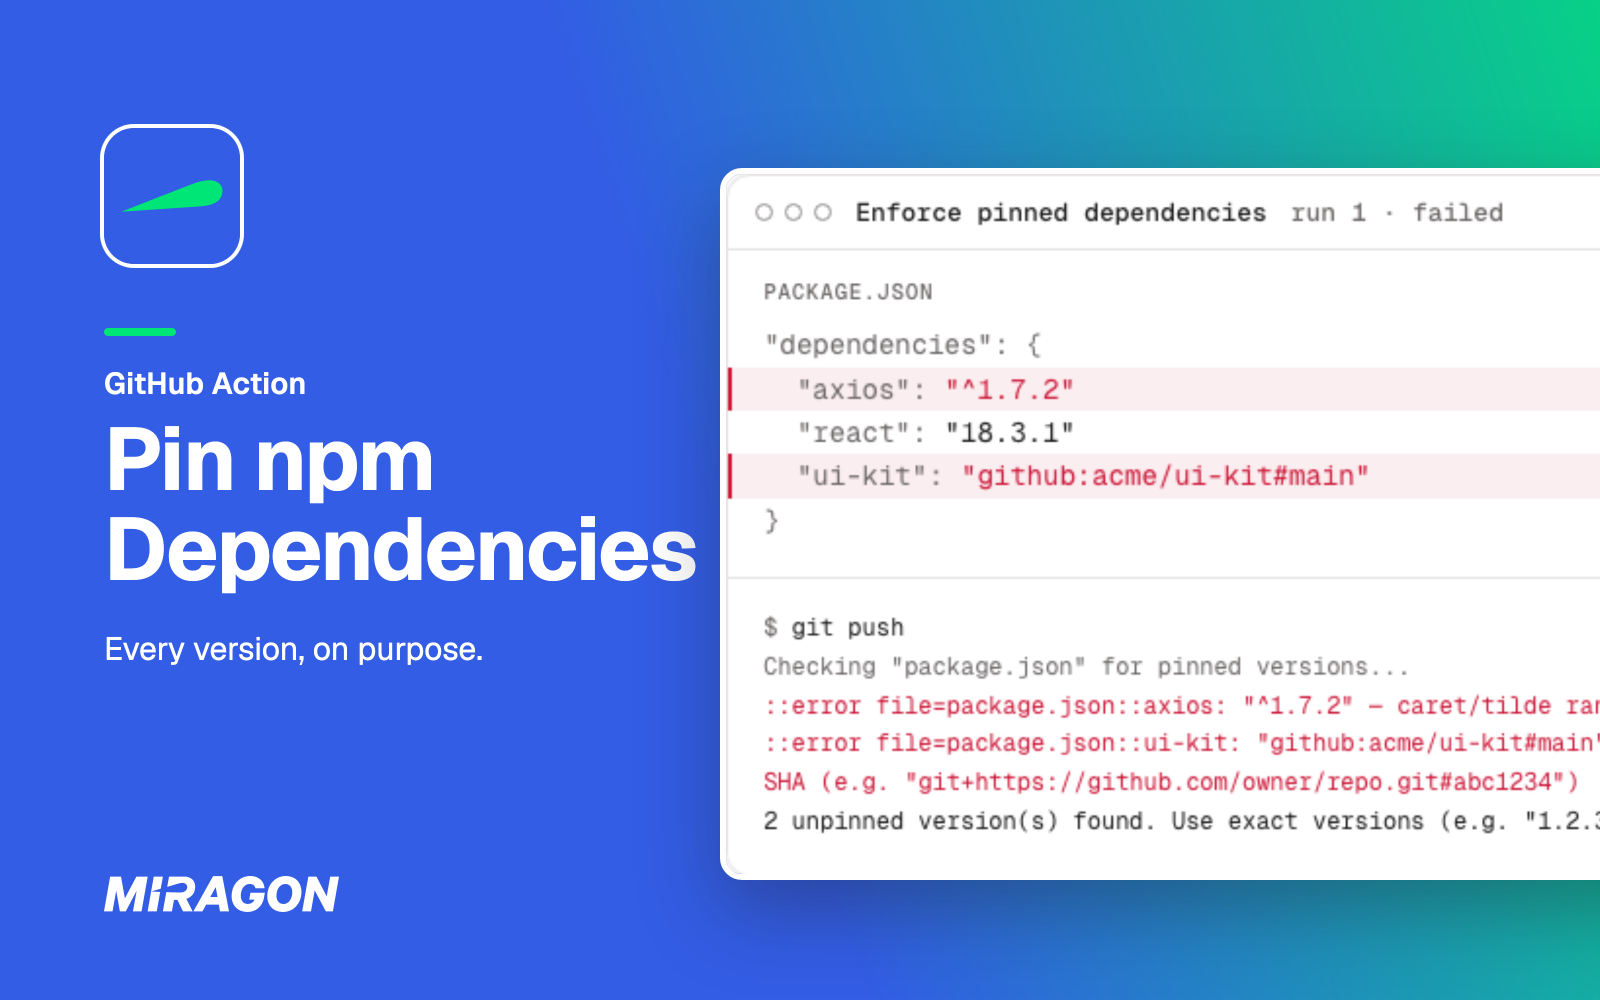
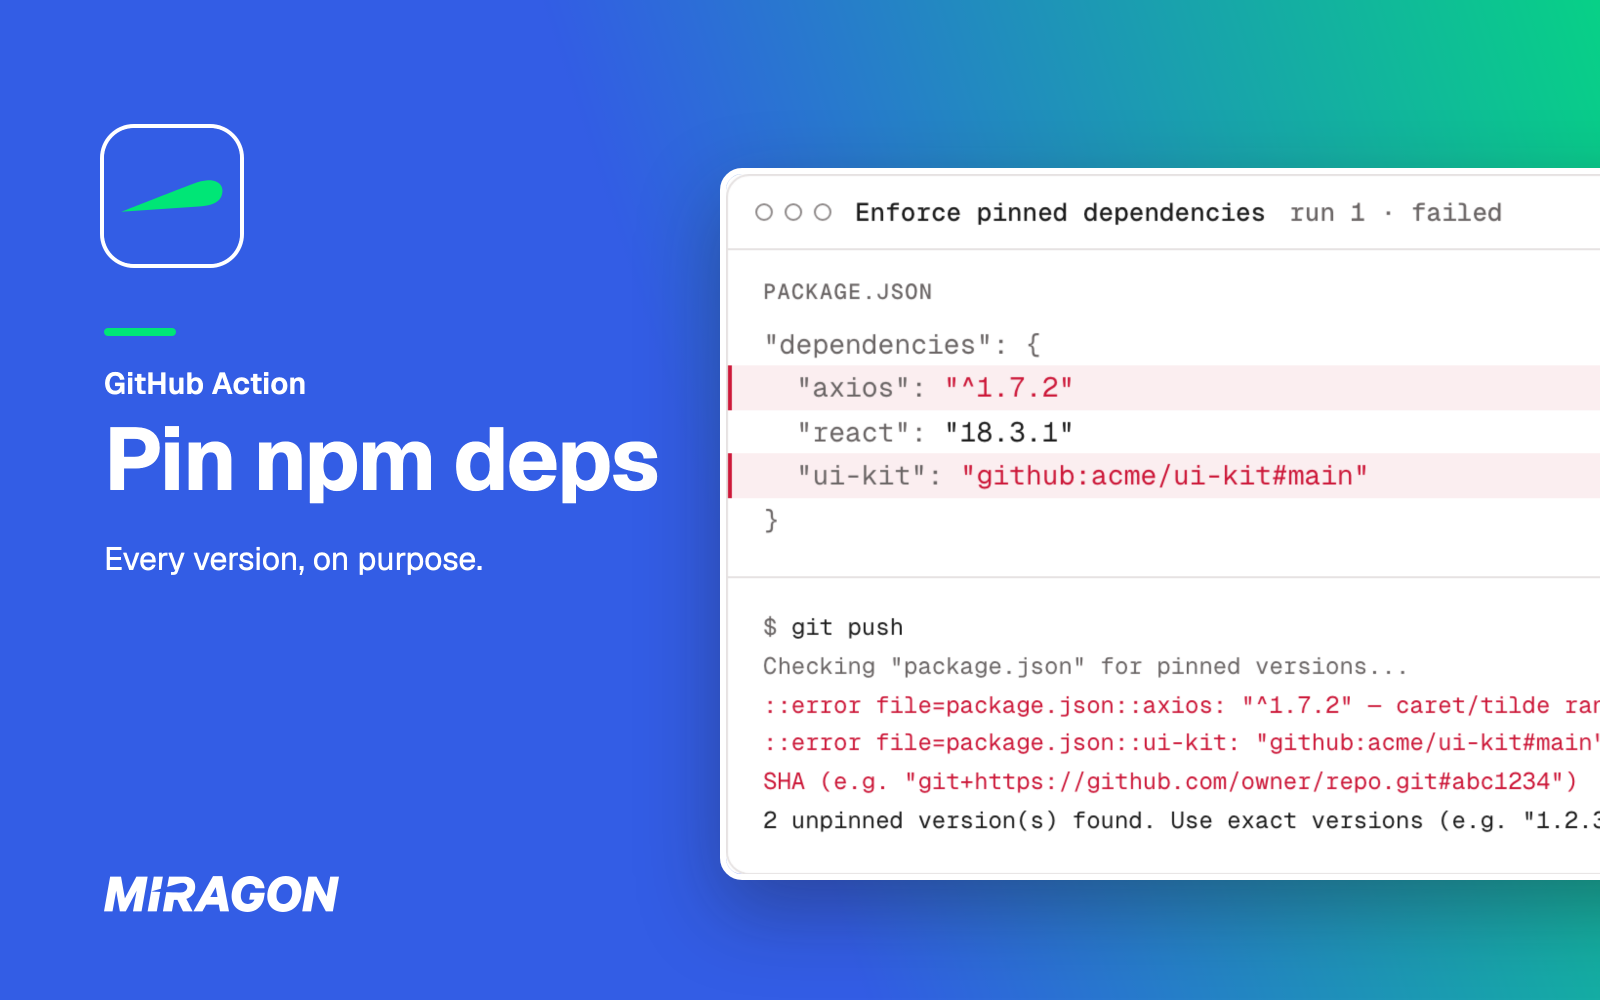
docs: sharpen the cover, shorten its title and drop the duplicate demo GIF

diff --git a/README.md b/README.md
@@ -4,7 +4,7 @@
 [![Test](https://github.com/Miragon/pin-npm-dependencies/actions/workflows/test.yml/badge.svg)](https://github.com/Miragon/pin-npm-dependencies/actions/workflows/test.yml)
 [![License: MIT](https://img.shields.io/github/license/Miragon/pin-npm-dependencies)](LICENSE)
 
-![Pin npm Dependencies, a GitHub Action: every version, on purpose. Next to the claim, a run of the action fails on a caret range and a git branch in package.json](docs/assets/cover.png)
+![Pin npm deps, a GitHub Action: every version, on purpose. Next to the claim, a run of the action fails on a caret range and a git branch in package.json](docs/assets/cover.png)
 
 A GitHub Action for npm, yarn and pnpm that fails the pull request when a `package.json` uses a version range, `latest` or a git branch instead of an exact version.
 
@@ -20,8 +20,6 @@ A GitHub Action for npm, yarn and pnpm that fails the pull request when a `packa
 - **Whole monorepos in one step.** Every `package.json` outside `node_modules`, `.git`, `dist` and `build`, or one package, or a list of files ([Monorepos](https://miragon.github.io/pin-npm-dependencies/monorepos)).
 - **One required check across repositories.** Report first, pin, then enforce ([Roll out](https://miragon.github.io/pin-npm-dependencies/rollout)).
 - **Nothing leaves the runner.** No network request, no token, no changed files.
-
-![A pull request adds chart.js with a caret range, the check fails with an annotation on that line, and after pinning it to 4.4.1 the check passes and the merge unlocks](docs/assets/demo.gif)
 
 ## Install
 
